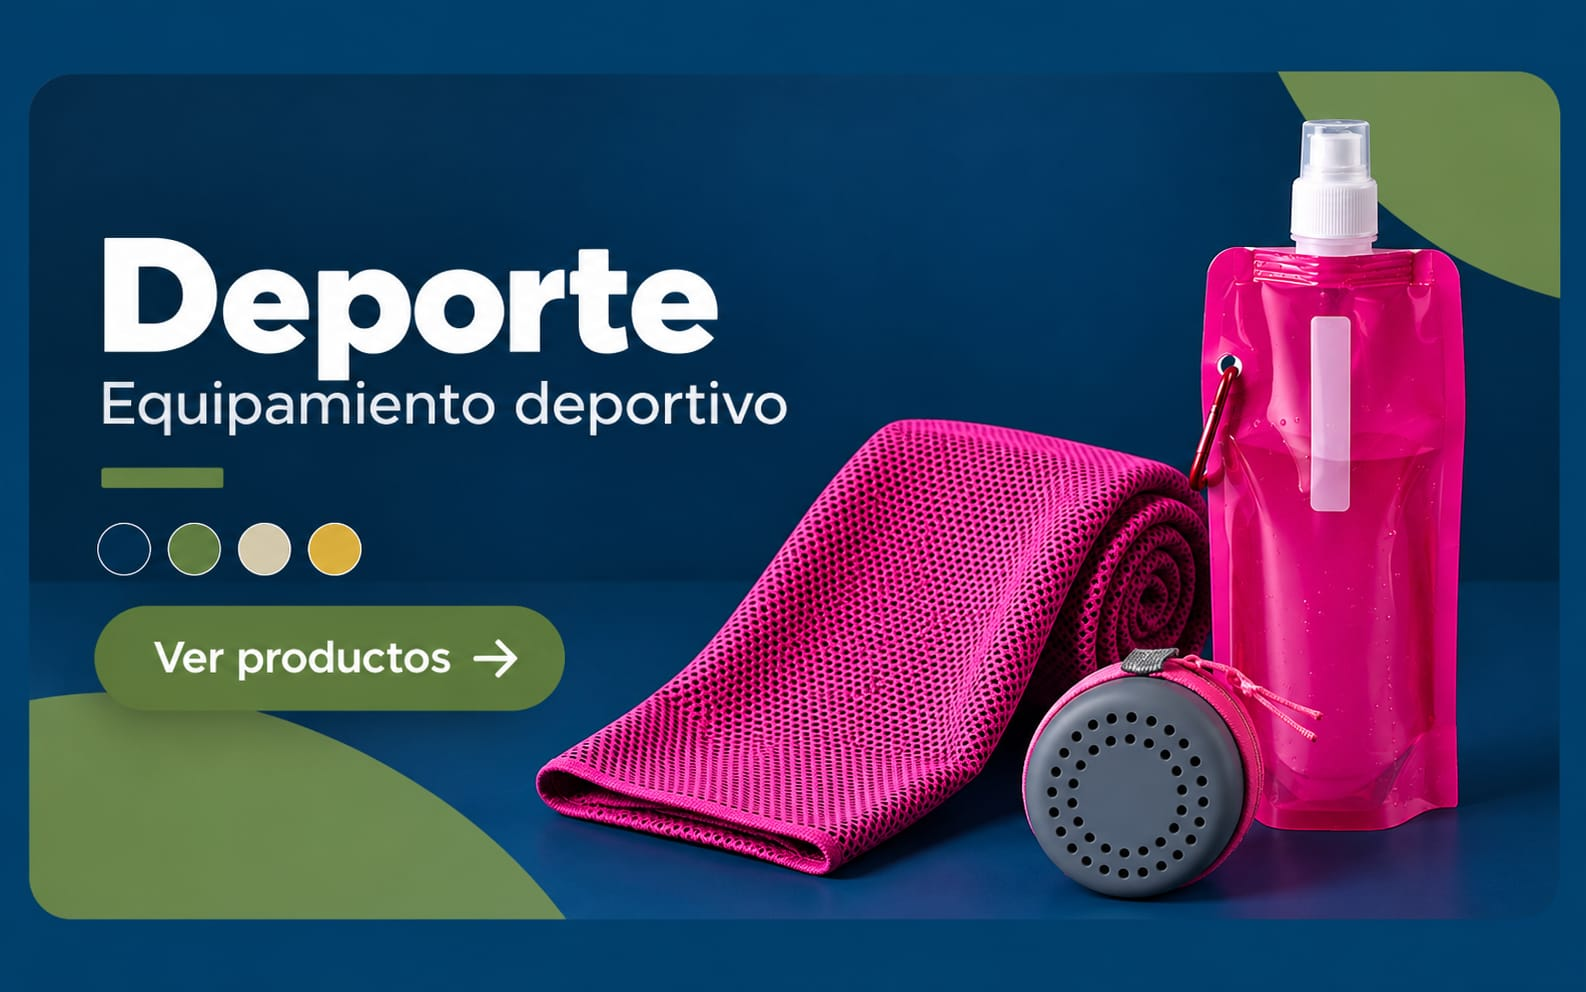
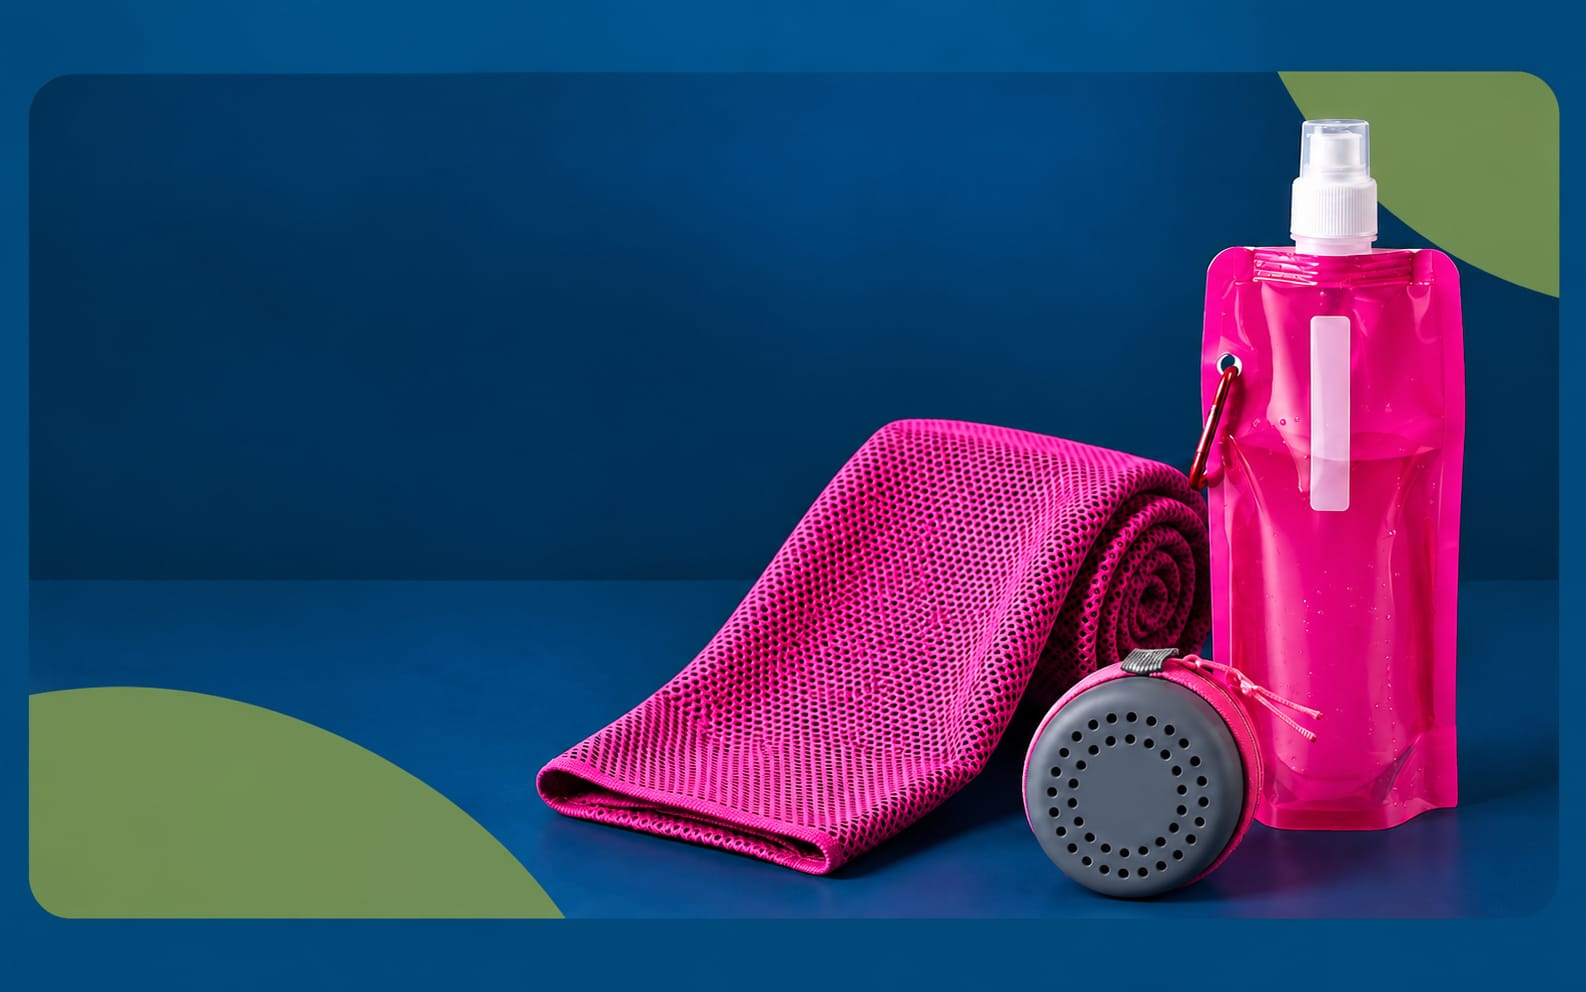
Mosaico: quitar overlay, contenido debajo de la foto, object-position y alto
1. Se quita por completo el overlay oscuro sobre la foto: se ve limpia,
   sin capa encima.
2. Titulo, contador de modelos y "Ver productos" se mueven fuera del
   recuadro de foto, debajo, sobre fondo blanco — misma estructura que
   ProductCard (recuadro de imagen arriba + contenido abajo). Dentro
   del recuadro solo queda la foto (o el color solido + icono cuando
   no hay foto para esa categoria).
3. object-position: center top en las 2 tarjetas grandes, center
   center en las 4 pequeñas.
4. Alto del recuadro de foto: 280px en grandes (antes 220px), se
   mantiene 168px en pequeñas.

De paso, se vuelven a optimizar las 6 fotos de categoria: una
sincronizacion (probablemente OneDrive) restauro las versiones
originales sin comprimir (PNG de ~1.5-1.8MB con extension .jpg) sobre
las que ya se habian optimizado en el commit anterior. Se re-codificaron
otra vez a JPEG progresivo real, calidad 80: ~10.5MB -> 632KB en total.

diff --git a/src/components/home/Mosaico.tsx b/src/components/home/Mosaico.tsx
@@ -11,10 +11,13 @@ import { IconoCategoria } from "./IconoCategoria";
  * a propósito, para que el grid 2 grandes + 4 pequeñas nunca quede con huecos.
  * Las 2 primeras del orden son las tarjetas grandes.
  *
- * Foto de fondo opcional por categoría: si existe public/img/categorias/<slug>.jpg
- * se usa como fondo (con overlay oscuro para legibilidad); si no existe, se usa el
- * color sólido + ícono decorativo de siempre. Se detecta en build time (Server
- * Component), así que basta con dejar el archivo ahí — no requiere tocar código.
+ * Misma estructura que ProductCard: recuadro de foto arriba (sin overlay, foto
+ * limpia) + contenido (título, contador, "Ver productos") debajo sobre blanco.
+ *
+ * Foto opcional por categoría: si existe public/img/categorias/<slug>.jpg se usa
+ * en el recuadro; si no existe, se usa color sólido + ícono decorativo. Se
+ * detecta en build time (Server Component), así que basta con dejar el archivo
+ * ahí — no requiere tocar código.
  */
 const CLASES_TILE = ["bg-marino", "bg-oliva", "bg-marino-2", "bg-oliva-2", "bg-marino", "bg-oliva-2"];
 const DIR_IMAGENES_CATEGORIAS = join(process.cwd(), "public", "img", "categorias");
@@ -51,34 +54,34 @@ export function Mosaico() {
         <Link
           key={t.slug}
           href={t.href}
-          className={`relative overflow-hidden rounded-2xl p-6 flex flex-col justify-between text-white transition-transform hover:-translate-y-[3px] ${
-            t.clase
-          } ${t.grande ? "md:col-span-2 min-h-[220px]" : "min-h-[168px]"}`}
+          className={`group block rounded-2xl overflow-hidden border border-linea bg-white transition-transform hover:-translate-y-[3px] ${
+            t.grande ? "md:col-span-2" : ""
+          }`}
         >
-          {t.imagen && (
-            <>
-              {/* eslint-disable-next-line @next/next/no-img-element */}
+          <div className={`relative w-full ${t.grande ? "h-[280px]" : "h-[168px]"} ${t.imagen ? "bg-white" : t.clase}`}>
+            {t.imagen ? (
+              // eslint-disable-next-line @next/next/no-img-element
               <img
                 src={t.imagen}
-                alt=""
-                className="absolute inset-0 w-full h-full object-cover z-0"
+                alt={t.titulo}
+                className={`absolute inset-0 w-full h-full object-cover ${
+                  t.grande ? "object-[center_top]" : "object-center"
+                } transition-transform duration-300 group-hover:scale-[1.04]`}
               />
-              <div className="absolute inset-0 bg-marino-3/55 z-[1]" aria-hidden />
-            </>
-          )}
-          <div>
-            <h3 className="text-[1.15rem] text-white relative z-[2]">{t.titulo}</h3>
-            <p className="text-[0.85rem] text-white/[.78] mt-1.5 relative z-[2] max-w-[26ch]">{t.texto}</p>
+            ) : (
+              <IconoCategoria
+                categoria={t.titulo}
+                color="#ffffff"
+                sombra="rgba(0,0,0,.2)"
+                className="absolute inset-0 m-auto w-[46%] h-[46%]"
+              />
+            )}
           </div>
-          <span className="text-[0.83rem] font-bold text-ambar-2 relative z-[2] mt-3.5">Ver productos</span>
-          {!t.imagen && (
-            <IconoCategoria
-              categoria={t.titulo}
-              color="#ffffff"
-              sombra="rgba(0,0,0,.2)"
-              className={`absolute -right-[18px] -bottom-[18px] opacity-20 z-[1] ${t.grande ? "w-[170px]" : "w-[120px]"}`}
-            />
-          )}
+          <div className="p-4">
+            <h3 className="text-[1.05rem] text-marino">{t.titulo}</h3>
+            <p className="text-[0.85rem] text-gris mt-1">{t.texto}</p>
+            <span className="text-[0.83rem] font-bold text-ambar mt-2.5 inline-block">Ver productos</span>
+          </div>
         </Link>
       ))}
     </div>
